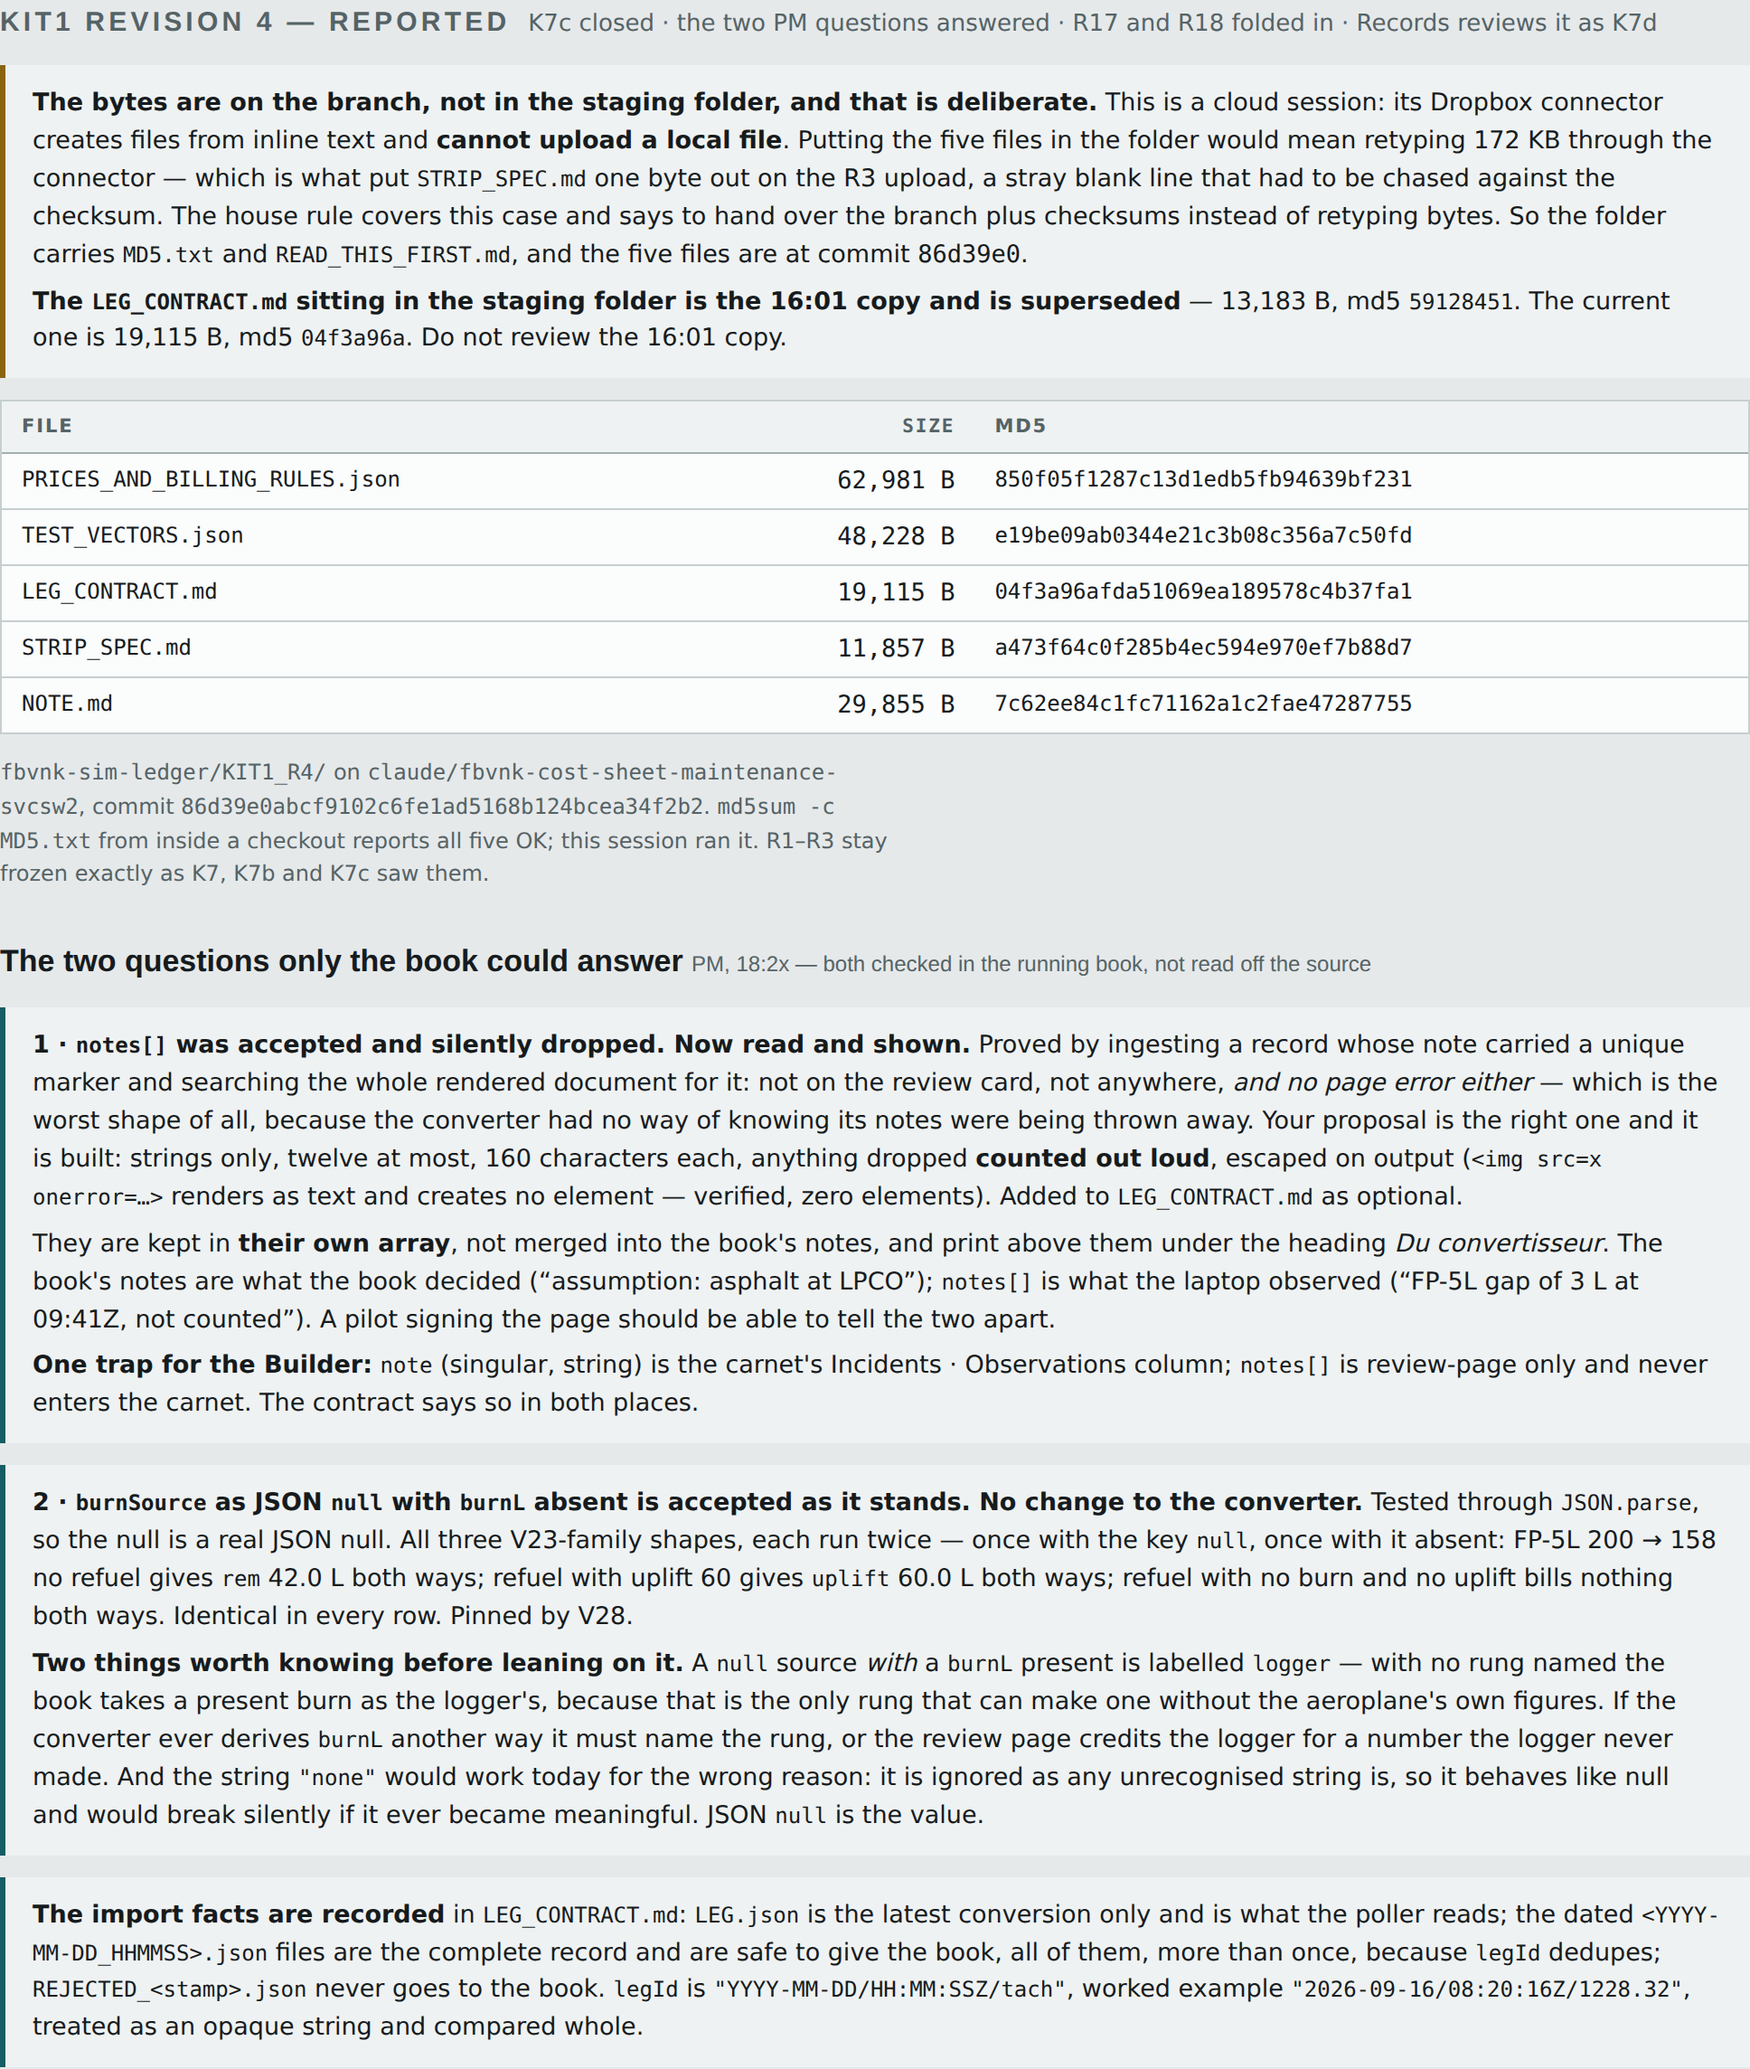
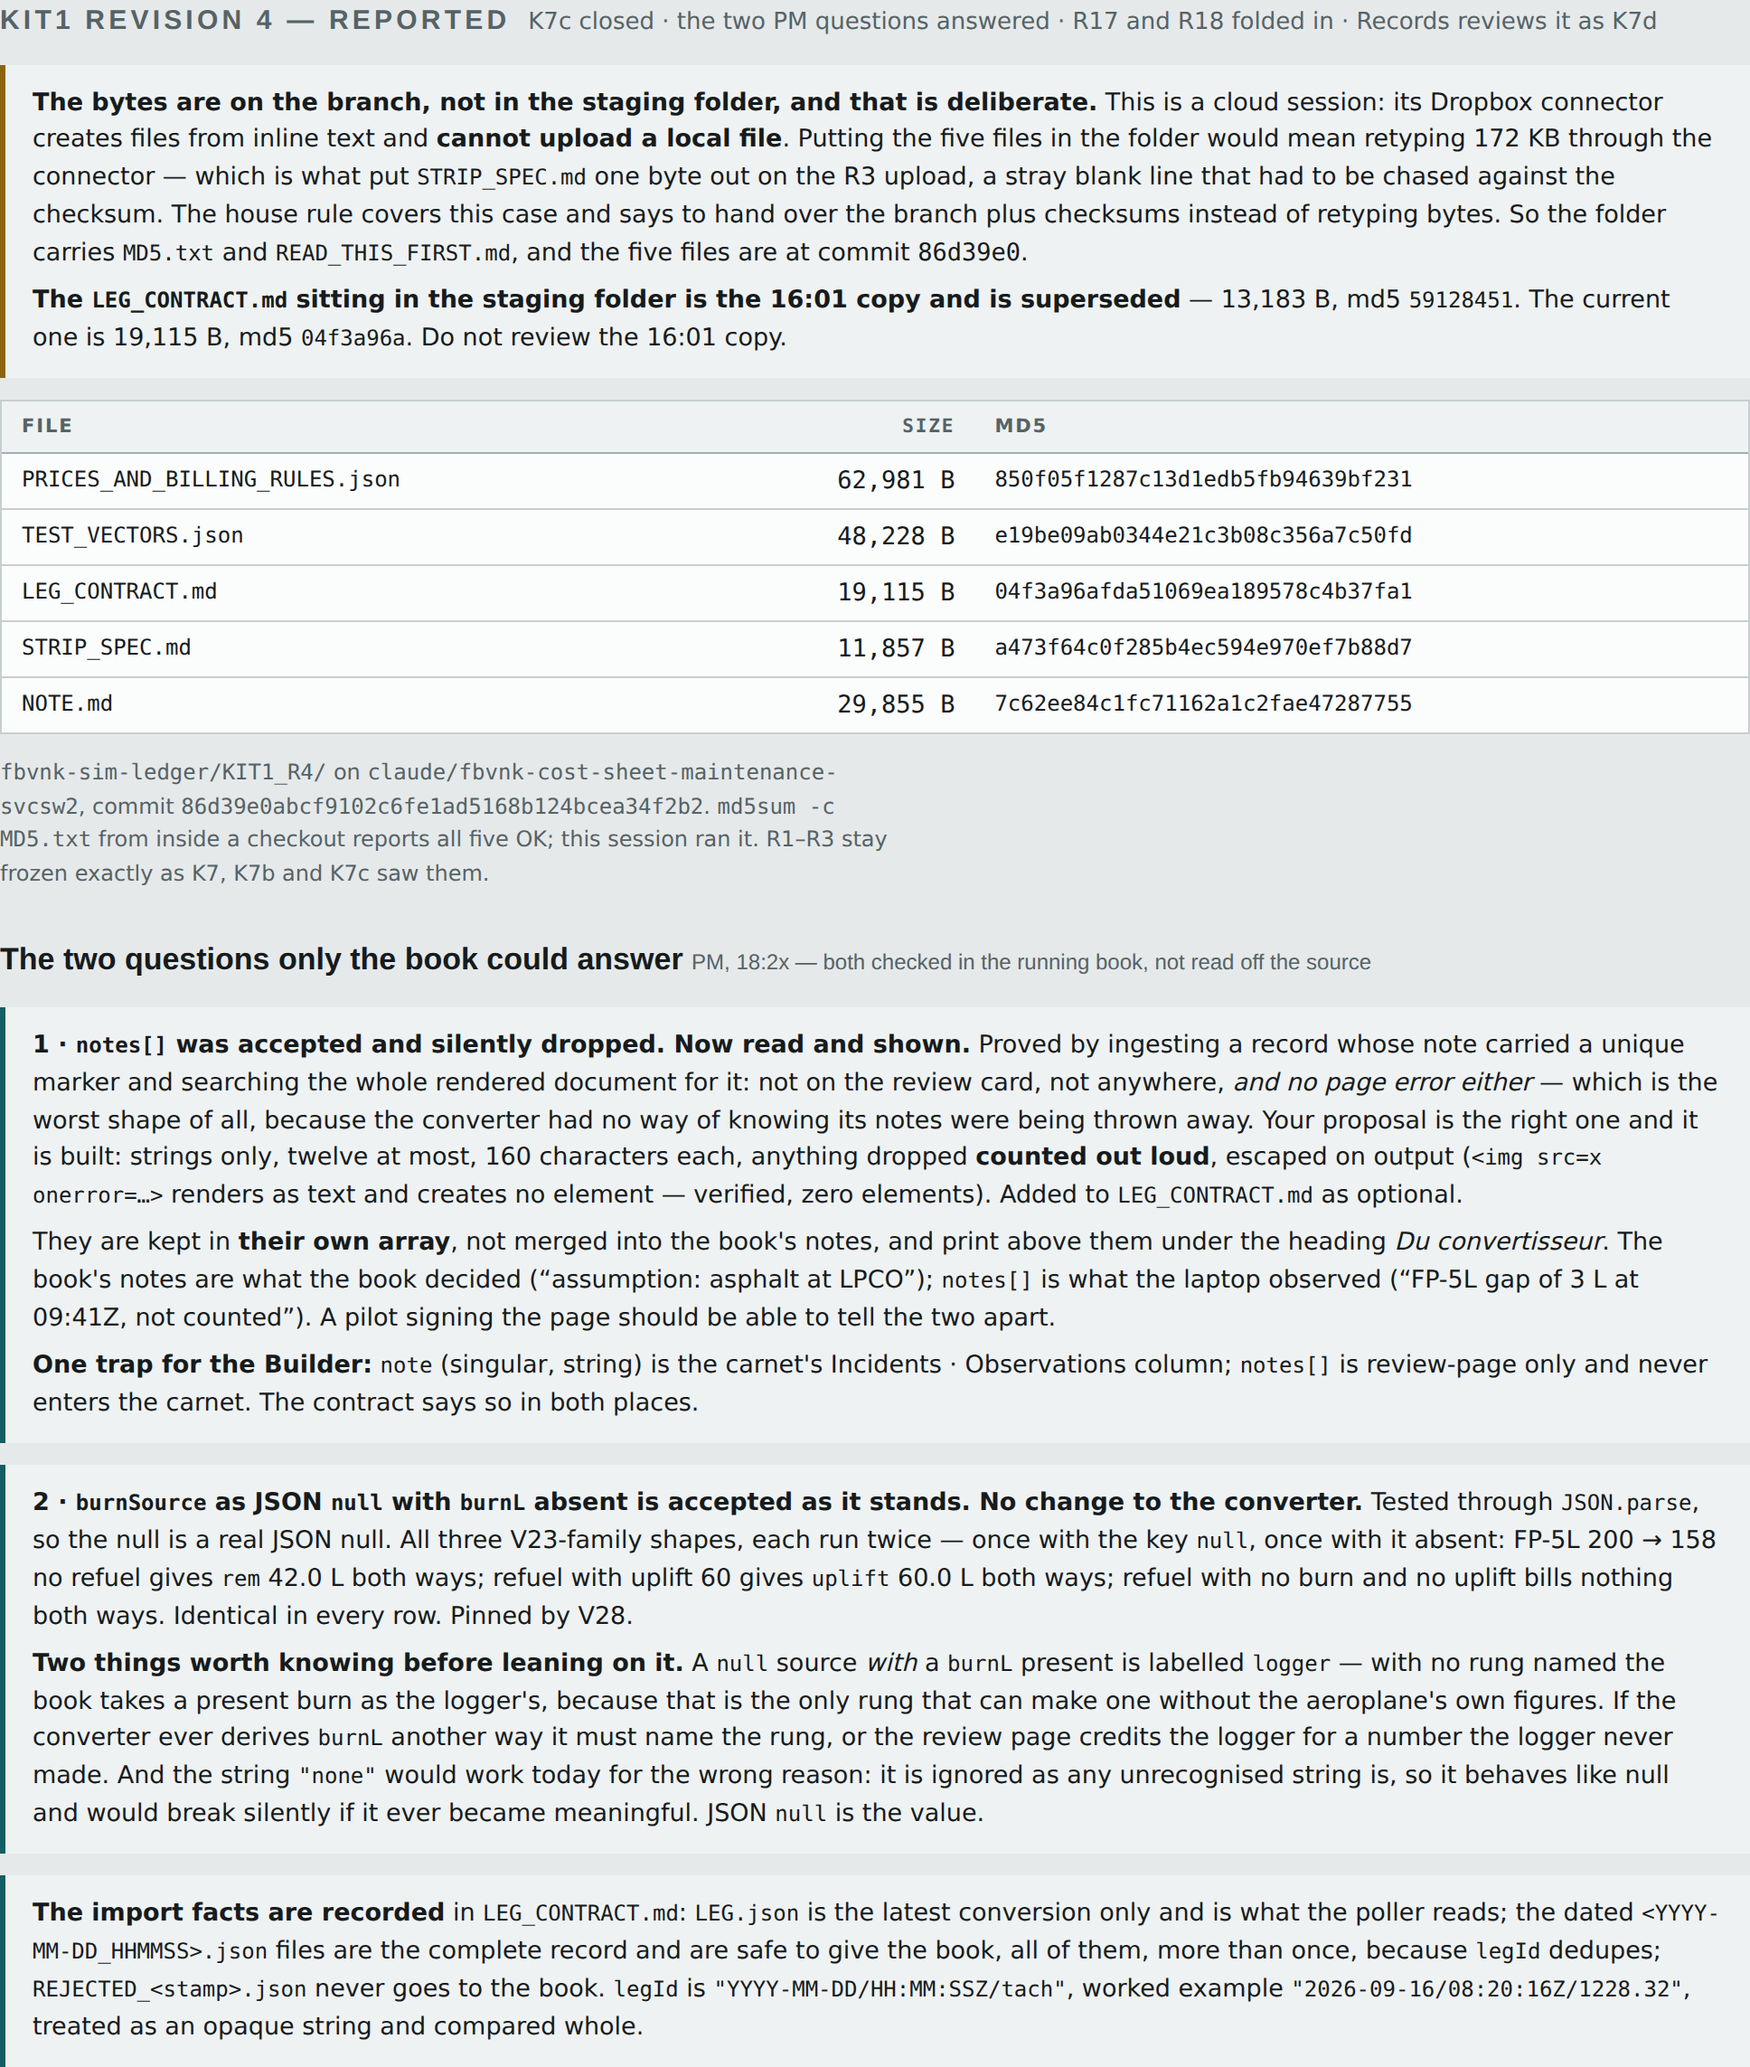
Job Card rev 16: V19 ported, K7e carried onto it
Claude-Session: https://claude.ai/code/session_019eb6XVXXj1PL6PpGAG61Zn

diff --git a/fbvnk-sim-ledger/JOB-CARD.html b/fbvnk-sim-ledger/JOB-CARD.html
@@ -160,7 +160,7 @@ footer{border-top:1px solid var(--line);padding-top:14px;font-size:13px;color:va
     <dl>
       <dt>Lane</dt><dd>design &amp; stage</dd>
       <dt>Leader</dt><dd>FBVNK PM</dd>
-      <dt>Card</dt><dd>16 Sep 2026 &middot; rev 15</dd>
+      <dt>Card</dt><dd>16 Sep 2026 &middot; rev 16</dd>
     </dl>
   </div>
 </header>
@@ -495,6 +495,19 @@ footer{border-top:1px solid var(--line);padding-top:14px;font-size:13px;color:va
     <p class="small"><strong>The EASA side is now in, as R18.</strong> It moved one row, added two and left <em>Nature du Vol</em> alone &mdash; the section below has it.</p>
   </div>
   <p class="small"><strong>The P1 figure is closed, and not by me.</strong> Claus, 18:04:32: &ldquo;good bloody question&hellip; ha ha, I should know, but I just carried it over from the previous owners. Keep it the same&rdquo;. The Logbook tab no longer calls it an assumption of this session&rsquo;s &mdash; it quotes him, and the figure stays exactly as his pages carry it.</p>
+</section>
+
+<section>
+  <h2>Version 19 ported, K7e carried onto it <span class="hint">Sim Ledger v20 &middot; commit <span class="mono">b474d35</span> &middot; hold lifted and honoured</span></h2>
+  <div class="note">
+    <p><strong>Version 19 is the PM&rsquo;s publish on top of my 22:10 page, so it predates the K7e remedy.</strong> I read all <strong>2,819 lines</strong> of the live page before republishing it &mdash; publishing code unread is not something this session does &mdash; then took it as the new base and ported the four things it was missing: the bounded <span class="mono tiny">tachHours</span>, <span class="mono tiny">S.tach.lastKey</span>, the <span class="mono tiny">chronoKey</span> captured before the ingest path rewrites a back-dated leg, and the A5 floor.</p>
+    <p class="small"><strong>Every K7e sequence reproduces on the ported page exactly as on the branch:</strong> another machine <strong>3.17</strong> against 332.99, out-of-order <strong>4.00</strong> against 5.80, the <span class="mono tiny">tachStop</span> typo 3.68, P3 sound, a real 3&nbsp;h ground run still 5.00, V33/V34 unchanged at 6.03, and a 20&nbsp;s hop shows <span class="mono tiny">0:01</span>. Full regression green; seeded book unmoved at 8 legs, 16 invoices, 18.4 hours.</p>
+  </div>
+  <div class="note">
+    <p><strong>Everything the PM built is kept</strong> &mdash; the entry card at the top of the Ramp tab, the iPad figure layout, the one-tap chips writing the same <span class="mono tiny">sel-*</span> fields, the Dropbox pickup with its STOP codes, the storage listener, <span class="mono tiny">clearEntry</span>. The declared Dropbox capability carried forward on republish.</p>
+    <p class="small"><strong>Two things fixed in passing, both in the PM&rsquo;s half.</strong> The carnet CSV export still wrote a hardcoded <span class="mono tiny">PIC</span> and <span class="mono tiny">&ldquo;P1&rdquo;</span> where the table on screen already used the pilot&rsquo;s chosen Fonctions and Nature du Vol &mdash; so a copied file disagreed with the page it came from. And a comment still said four rows move money where the rendered text says five.</p>
+  </div>
+  <p class="tiny muted">Commit <span class="mono">b474d35948371c84034e8c1c317ca01a2e5b6de6</span>, book 176,741&nbsp;B, md5 <span class="mono tiny">62169ab1</span>. Sim Ledger <strong>version 20</strong>, published on top of the live <span class="mono tiny">1789590725-d53d</span> &mdash; which was already newer than the base the PM quoted, so it was read rather than assumed. Records reviews V19 as K24; this is V19 plus the K7e remedy.</p>
 </section>
 
 <section>
